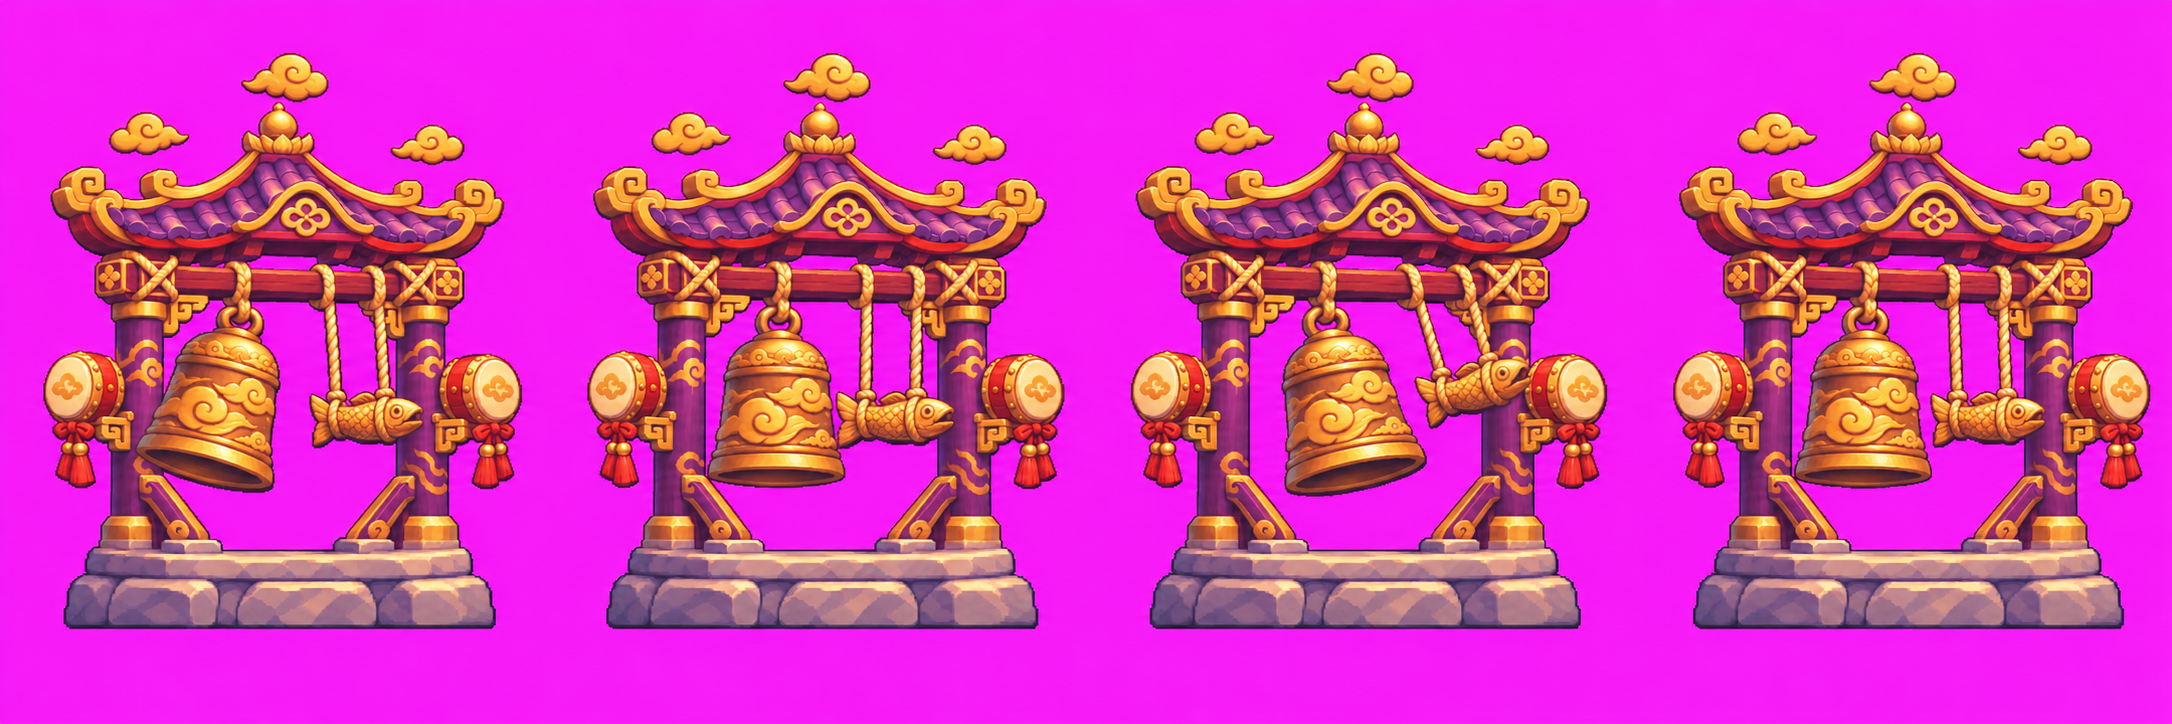
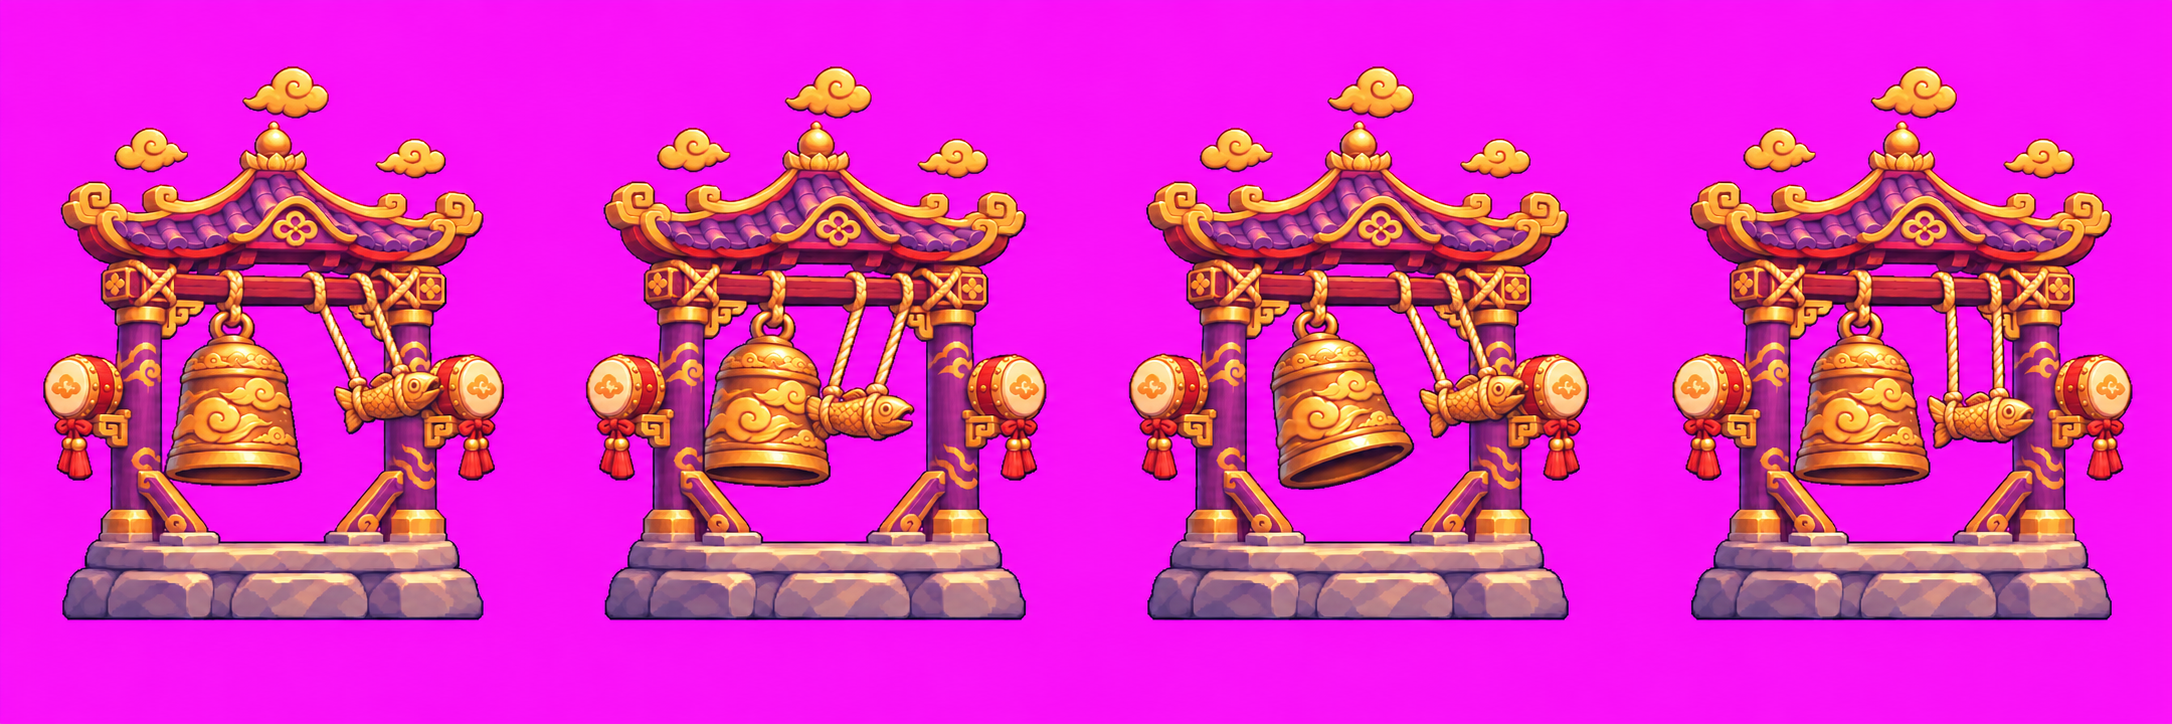
art(batch2): revise locked proportions of bell__t3__attack.png

diff --git a/idle-td-art/batch2/ORDER-B2.md b/idle-td-art/batch2/ORDER-B2.md
@@ -90,7 +90,7 @@ Redraw image B frame by frame using the tier <N> design from image A: EXACTLY th
 
 ## 交付紀錄
 
-- 09:35 指定的六張攻擊圖修訂已交齊；10:20 複核另要求修訂弩箭一階、鐘塔三階、符咒一階攻擊。本輪僅處理新增三張，其餘圖片不重複上傳；冰塔三階 20d9a0c 版本待驗收。
+- 09:35 指定的六張攻擊圖修訂已交齊；10:20 複核另要求修訂弩箭一階、鐘塔三階、符咒一階攻擊。本輪處理新增三張；10:30 明確要求冰塔三階再修固定冰晶，另按此新意見處理，其餘圖片不重複上傳。
 - 全部圖片在本第二批專用 ChatGPT 工作對話使用 ImageGen 製作，每次均以標準圖為第一張參考。
 - 提交生成原始 PNG；不裁切、不縮放、不替換背景，不用程式繪圖。程式僅讀取尺寸與校驗檔案；各次原圖保留在工作環境。
 - 依 2026-11-04 04:25 TW 最新流程，不用停等驗收；每張推送後 fetch 意見，有意見先改。寒冰塔升階晶體需明顯變大、變藍。
@@ -111,7 +111,6 @@ Redraw image B frame by frame using the tier <N> design from image A: EXACTLY th
 | `images/bell__t2__stand.png` | 1254×1254 | 1 | 雷音鐘塔 2 階：紅漆曲簷鐘亭、雕雲紋青銅鐘、魚形木槌。 |
 | `images/bell__t3__stand.png` | 1254×1254 | 1 | 雷音鐘塔 3 階：紫金鐘樓、雷雲紋金鐘、雙鼓與三枚浮雲飾件。 |
 | `images/bell__t2__attack.png` | 2172×724 | 4 | 雷音鐘塔 2 階攻擊四格：魚形木槌敲擊與雕紋銅鐘擺動，紅漆鐘亭固定。 |
-| `images/bell__t3__attack.png` | 2172×724 | 4 | 雷音鐘塔 3 階攻擊四格：金鐘與魚形槌擺動，保留紫金鐘樓、雙鼓及浮雲。 |
 | `images/frost__t2__stand.png` | 1254×1254 | 1 | 寒冰燈塔 2 階：白石銀霜紋、屋簷冰柱，依意見把晶體顯著放大並加深藍色。 |
 | `images/frost__t3__stand.png` | 1254×1254 | 1 | 寒冰燈塔 3 階：大型深藍懸浮晶球、銀色塔頂、冰晶立柱與底座尖晶、三枚浮雪晶。 |
 | `images/frost__t1__attack.png` | 2172×724 | 4 | 寒冰燈塔 1 階攻擊四格：晶體後縮、升高變亮、向右推與復位，燈座不動。 |
@@ -127,6 +126,7 @@ Redraw image B frame by frame using the tier <N> design from image A: EXACTLY th
 | `images/frost__t2__attack.png` | 2172×724 | 4 | 09:35 返工修正版：保留大藍晶體，四格只移位；冰柱擺動、塔身固定，第 4 格回到站立。 |
 | `images/frost__t3__attack.png` | 2172×724 | 4 | 09:35 返工修正版：大水晶球保持四格同尺寸，只做左移、上浮、右推、回位；雪花移動，第 4 格回到站立。 |
 | `images/crossbow__t1__attack.png` | 2172×724 | 4 | 10:20 返工修正版：依站立重新生成固定木架、塔腳與平台；只動弩弦、弩身和旗子。 |
+| `images/bell__t3__attack.png` | 2172×724 | 4 | 10:20 返工修正版：降低偏高塔身、保留底座與塔寬；魚槌後擺、撞鐘、回彈及復位，固定亭架。 |
 
 原檔 SHA-256：
 
@@ -144,7 +144,6 @@ Redraw image B frame by frame using the tier <N> design from image A: EXACTLY th
[7 lines of base64/hex data omitted]
@@ -160,6 +159,7 @@ Redraw image B frame by frame using the tier <N> design from image A: EXACTLY th
[4 lines of base64/hex data omitted]
 
 ## 意見與待辦
 
